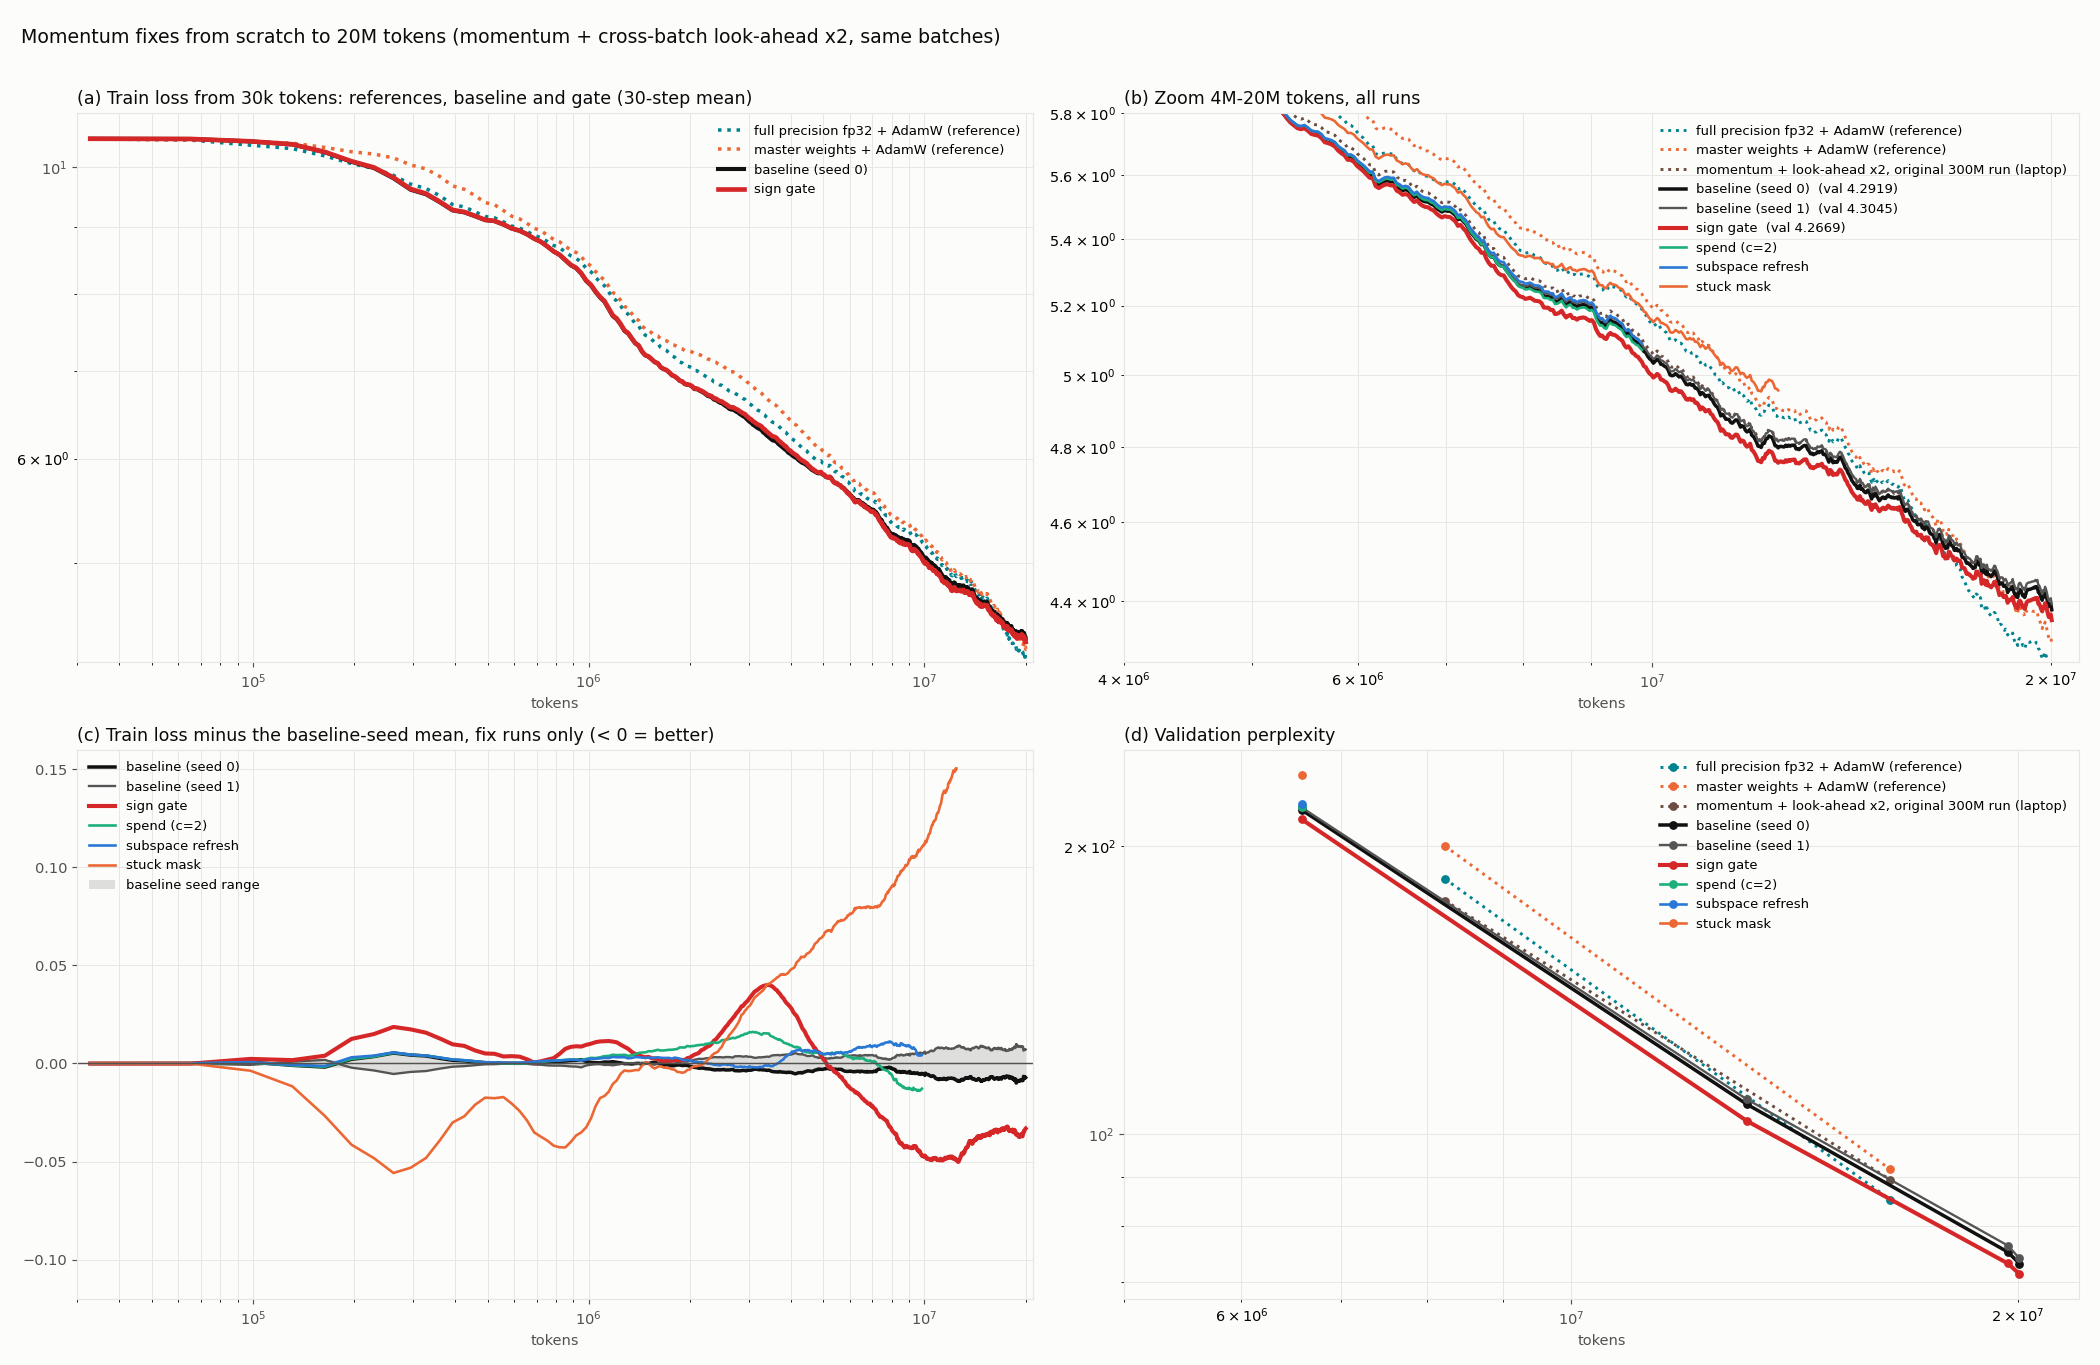
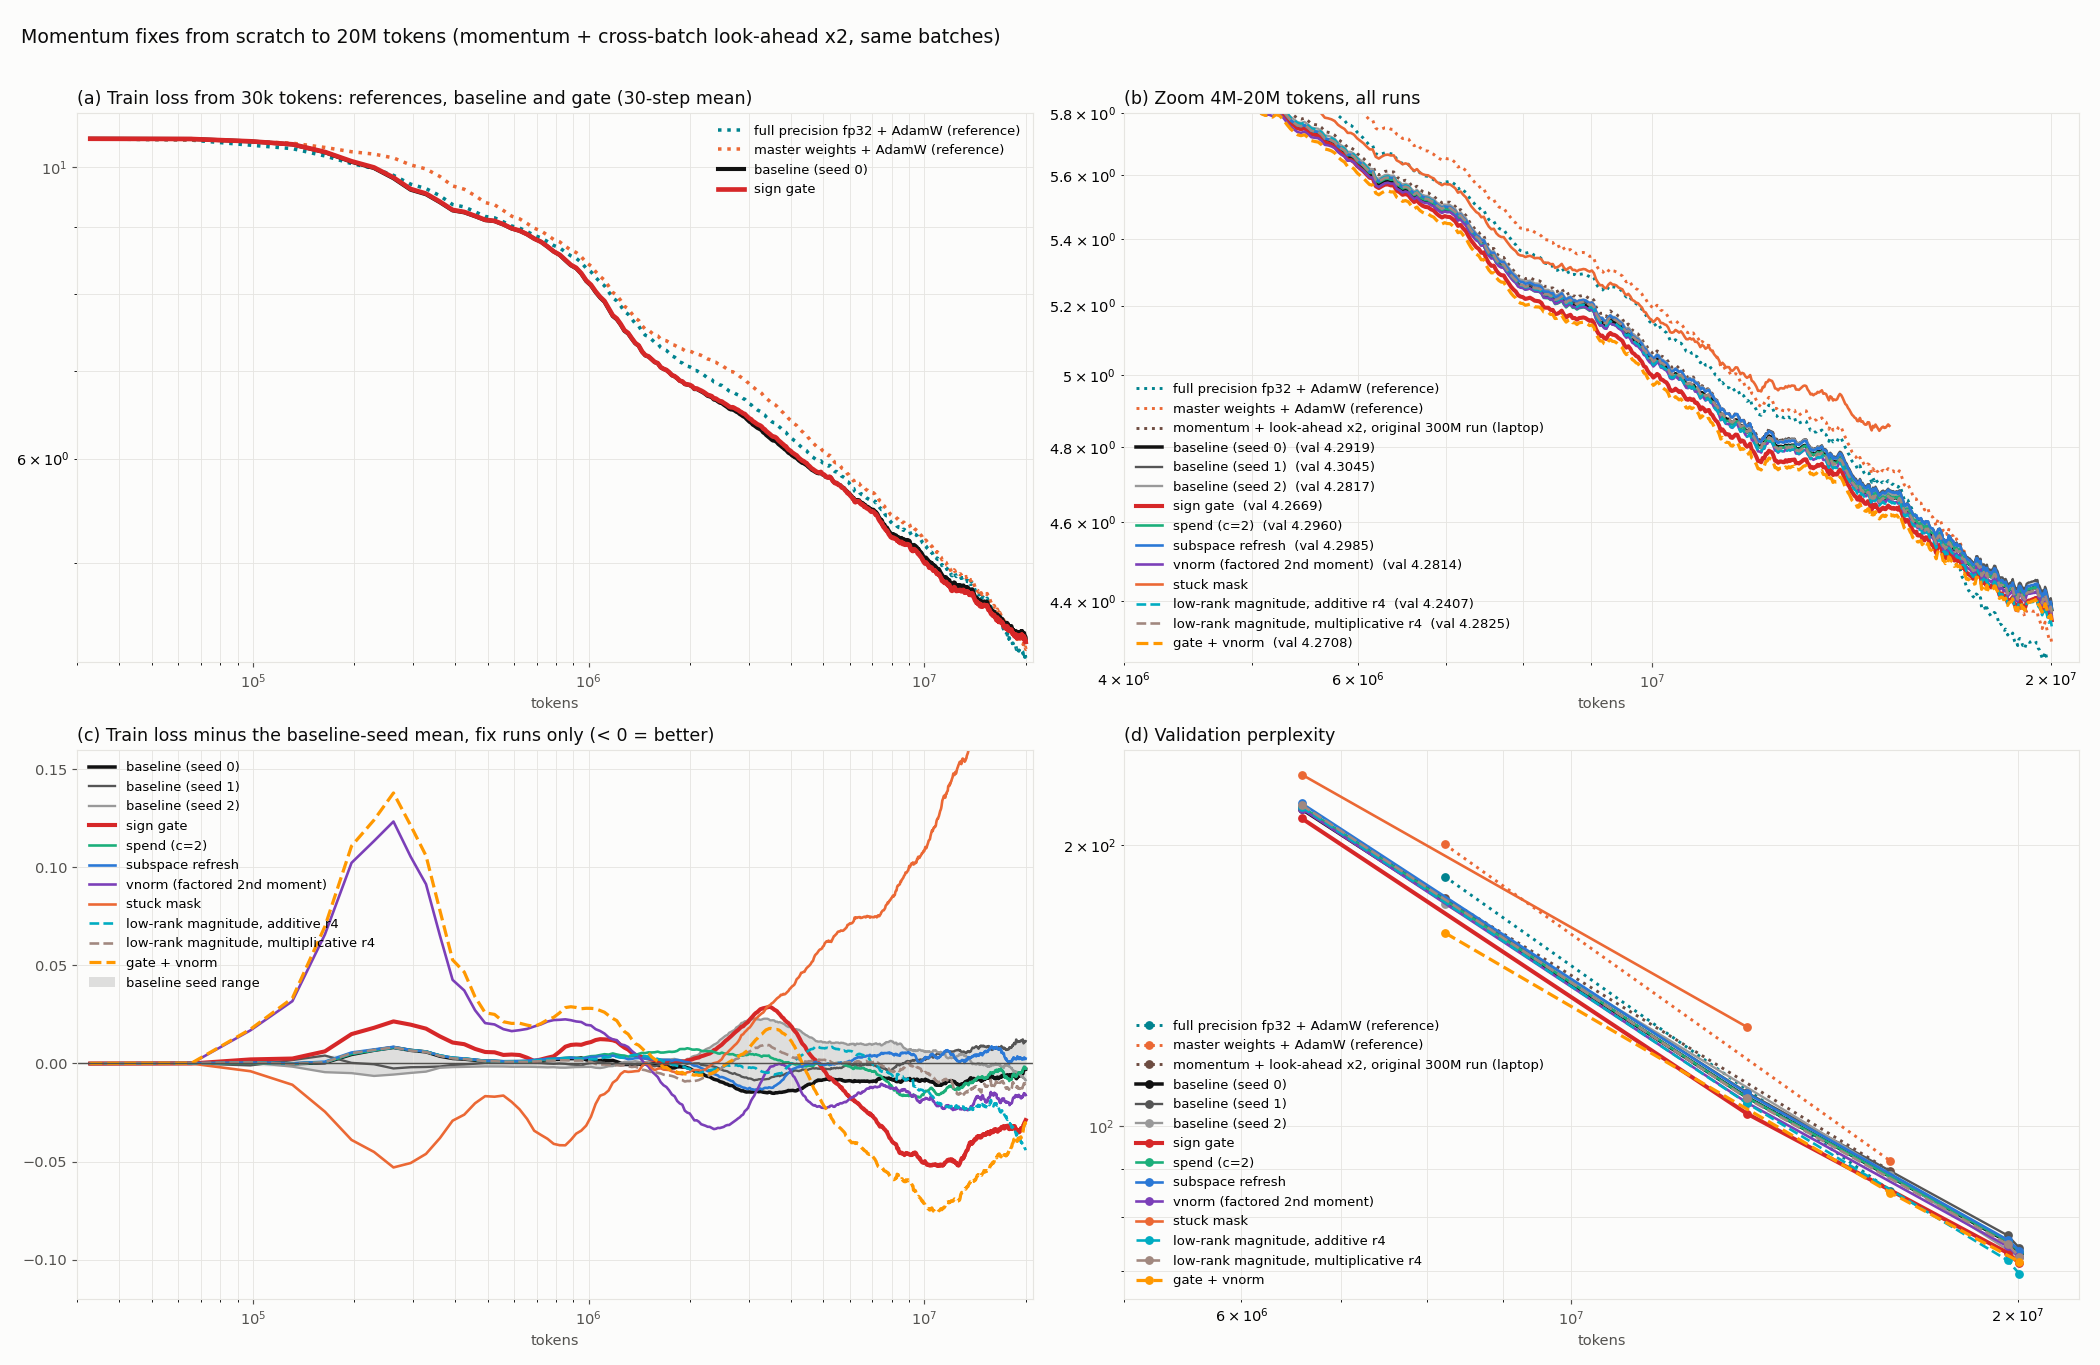
Plots: additive magnitude run on live and all-runs

diff --git a/scripts/plots/plot_live.py b/scripts/plots/plot_live.py
@@ -13,7 +13,8 @@ RUNS = [  # dir, label, color, width, highlight
     ("fp32_baseline", "full precision fp32 + AdamW (not ternary)", "#00acc1", 2.4, False),
     ("p2_baseline",   "master weights (ceiling)",           "#eb6834", 2.4, False),
     ("lm_lowrank256_xb2_100M", "rank-256 momentum + cross-batch look-ahead x2", "#e53935", 3.0, True),
-    ("lowrank256_nola_full", "RANK-256 MOMENTUM, NO LOOK-AHEAD (running)", "#7b1fa2", 3.0, True),
+    ("lowrank256_nola_full", "rank-256 momentum, no look-ahead (stopped at 48M)", "#7b1fa2", 2.0, False),
+    ("magadd_full", "MOMENTUM + LOOK-AHEAD + ADDITIVE MAGNITUDE r4", "#1565c0", 3.0, True),
     ("overnight_full", "cross-batch look-ahead x2, stopped at 131M", "#111111", 2.4, False),
     ("armA_cos_la1",  "look-ahead (same batch), stopped at 202M", "#c2185b", 1.8, False),
     ("armA_cosine",   "flips, cosine rate (reference)",     "#1baf7a", 1.8, False),

diff --git a/scripts/plots/plot_all.py b/scripts/plots/plot_all.py
@@ -22,6 +22,7 @@ GROUPS = [
     ("cross-batch look-ahead (2 passes) + fast ramp + fp32 tail", "#111111",
      "overnight_full", ["overnight_full", "la_xb1", "la_xb2", "la_xb2_rc", "la_fastramp_lr15",
                         "la_fast_fp32tail"]),
+    ("momentum + look-ahead + additive low-rank magnitude (r4)", "#1565c0", "magadd_full", ["magadd_full"]),
     ("rank-256 momentum + cross-batch look-ahead x2", "#e53935", "lm_lowrank256_xb2_100M",
      ["lm_lowrank256_xb2_100M", "lm_lowrank256_xb2", "lm_lowrank256_adapt_xb2"]),
     ("rank-256 momentum, no look-ahead", "#9575cd", "lm_lowrank256",
